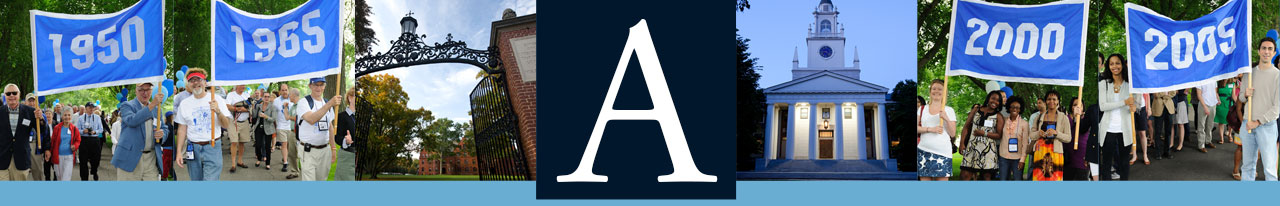
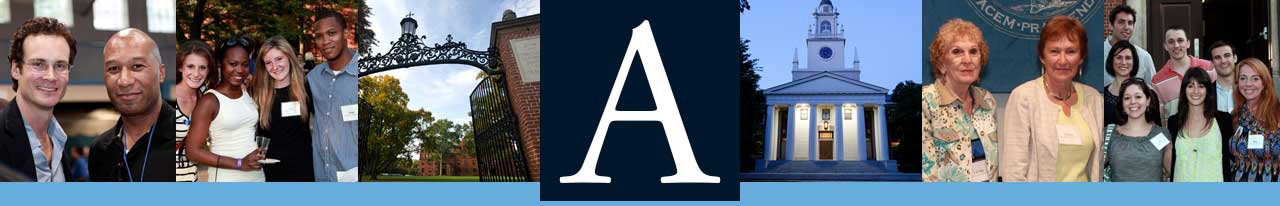
Updated Reunion Template
Updated reunion template colors and header image

diff --git a/html/reunion.html b/html/reunion.html
@@ -35,7 +35,7 @@
   font-weight: bold;
   margin-top: 0px;
   margin-bottom: 0;
-  text-shadow: 0 2px 3px #347ea7;
+  text-shadow: 0 2px 4px #246e9e;
   text-transform: uppercase; }
 
 .reunion-purpose span {
@@ -45,11 +45,11 @@
   font-family: "Helvetica Neue", Arial, Helvetica, sans-serif;
   font-size: 24px;
   line-height: 130%;
-  color: #90caea;
+  color: #85bde3;
   font-weight: bold;
   margin-top: 0px;
   margin-bottom: 0;
-  text-shadow: 0 2px 3px #01172c; }
+  text-shadow: 0 2px 4px #0c2637; }
 
 .reunion-date a {
   color: #90caea !important;
@@ -790,7 +790,7 @@ h1.section-title {
     <!-- PA Colors -->
                     
     <!-- Reunion Colors -->
-                                <!-- pa-butter__tint-10 = #fffcf2 -->
+                                    <!-- pa-butter__tint-10 = #fffcf2 -->
     
     
     <!-- Layout -->
@@ -805,7 +805,7 @@ h1.section-title {
 <!-- ------------ -->
 <!-- BRAND HEADER -->
 <!-- ------------ -->
-<table id="header" width="100%" cellpadding="0" cellspacing="0" border="0" bgcolor="#dee8f4">
+<table id="header" width="100%" cellpadding="0" cellspacing="0" border="0" bgcolor="#0058a0">
 <tbody>
 <tr style="border-collapse:collapse;" bgcolor="">
     <td width="640" align="center" class="responsive">
@@ -871,7 +871,7 @@ h1.section-title {
 </tr>
 <tr style="border-collapse:collapse;">
     <td class="responsive" width="640">
-        <table class="responsive" width="640" cellpadding="0" cellspacing="0" border="0" bgcolor="#6aadd2">
+        <table class="responsive" width="640" cellpadding="0" cellspacing="0" border="0" bgcolor="#66addc">
         <tbody>
         <tr style="border-collapse:collapse;">
             <td class="responsive" width="640" height="5" style="font-size:5px;line-height:5px;">&nbsp;</td>
@@ -884,7 +884,7 @@ h1.section-title {
             </td>
         </tr>
         <tr style="border-collapse:collapse;">
-            <td class="responsive" width="640" height="5" bgcolor="#347ea7" style="font-size:5px;line-height:5px;">&nbsp;</td>
+            <td class="responsive" width="640" height="5" bgcolor="#297cb3" style="font-size:5px;line-height:5px;">&nbsp;</td>
         </tr>
         </tbody>
         </table>
@@ -892,7 +892,7 @@ h1.section-title {
 </tr>
 <tr style="border-collapse:collapse;">
     <td class="responsive" width="640">
-        <table class="responsive" width="640" cellpadding="0" cellspacing="0" border="0" bgcolor="#0039a6">
+        <table class="responsive" width="640" cellpadding="0" cellspacing="0" border="0" bgcolor="#0058a0">
         <tbody>
         <tr style="border-collapse:collapse;">
             <td class="responsive" width="640" height="5" style="font-size:5px;line-height:5px;">&nbsp;</td>

diff --git a/sass/style--reunion-master.css b/sass/style--reunion-master.css
@@ -15,7 +15,7 @@
 \*------------------------------------*/
 /*------------------------------------*    # Reunion Layout
 \*------------------------------------*/
-/* line 26, /Users/jkapaldo/GitHub/CM Templates/sass/partials/style--reunion.scss */
+/* line 27, /Users/jkapaldo/GitHub/CM Templates/sass/partials/style--reunion.scss */
 .reunion-purpose {
   font-family: "Helvetica Neue", Arial, Helvetica, sans-serif;
   font-size: 32px;
@@ -24,25 +24,25 @@
   font-weight: bold;
   margin-top: 0px;
   margin-bottom: 0;
-  text-shadow: 0 2px 3px #347ea7;
+  text-shadow: 0 2px 4px #246e9e;
   text-transform: uppercase; }
 
-/* line 37, /Users/jkapaldo/GitHub/CM Templates/sass/partials/style--reunion.scss */
+/* line 38, /Users/jkapaldo/GitHub/CM Templates/sass/partials/style--reunion.scss */
 .reunion-purpose span {
   font-weight: 300; }
 
-/* line 40, /Users/jkapaldo/GitHub/CM Templates/sass/partials/style--reunion.scss */
+/* line 41, /Users/jkapaldo/GitHub/CM Templates/sass/partials/style--reunion.scss */
 .reunion-date {
   font-family: "Helvetica Neue", Arial, Helvetica, sans-serif;
   font-size: 24px;
   line-height: 130%;
-  color: #90caea;
+  color: #85bde3;
   font-weight: bold;
   margin-top: 0px;
   margin-bottom: 0;
-  text-shadow: 0 2px 3px #01172c; }
+  text-shadow: 0 2px 4px #0c2637; }
 
-/* line 50, /Users/jkapaldo/GitHub/CM Templates/sass/partials/style--reunion.scss */
+/* line 51, /Users/jkapaldo/GitHub/CM Templates/sass/partials/style--reunion.scss */
 .reunion-date a {
   color: #90caea !important;
   text-decoration: none; }

diff --git a/sass/partials/style--reunion.scss b/sass/partials/style--reunion.scss
@@ -7,6 +7,7 @@ $pa-butter__tint-60: #ffedb3;
 $pa-gold__darken-3: #fdb603;
 $pa-gold__darken-6: #eeab02;
 $pa-gold__darken-10: #da9c02;
+$abbot-blue__tint-80: #85bde3;
 
 
 
@@ -31,7 +32,7 @@ $title-purpose: $pa-gold__darken-6;
 	font-weight:bold;
 	margin-top:0px;
 	margin-bottom:0;
-	text-shadow:0 2px 3px #347ea7;
+	text-shadow:0 2px 4px darken($abbot-blue, 25%);
 	text-transform:uppercase;
 }
 	.reunion-purpose span {
@@ -41,11 +42,11 @@ $title-purpose: $pa-gold__darken-6;
 	font-family:$san-serif;
 	font-size: 24px;
 	line-height:130%;
-	color: #90caea;
+	color: $abbot-blue__tint-80;
 	font-weight:bold;
 	margin-top:0px;
 	margin-bottom:0;
-	text-shadow:0 2px 3px #01172c;
+	text-shadow:0 2px 4px darken($abbot-blue, 50%);
 }
 	.reunion-date a {
 		color:#90caea !important;

diff --git a/sass/css/style--reunion-master.css b/sass/css/style--reunion-master.css
@@ -28,7 +28,7 @@
   font-weight: bold;
   margin-top: 0px;
   margin-bottom: 0;
-  text-shadow: 0 2px 3px #347ea7;
+  text-shadow: 0 2px 4px #246e9e;
   text-transform: uppercase; }
 
 .reunion-purpose span {
@@ -38,11 +38,11 @@
   font-family: "Helvetica Neue", Arial, Helvetica, sans-serif;
   font-size: 24px;
   line-height: 130%;
-  color: #90caea;
+  color: #85bde3;
   font-weight: bold;
   margin-top: 0px;
   margin-bottom: 0;
-  text-shadow: 0 2px 3px #01172c; }
+  text-shadow: 0 2px 4px #0c2637; }
 
 .reunion-date a {
   color: #90caea !important;
